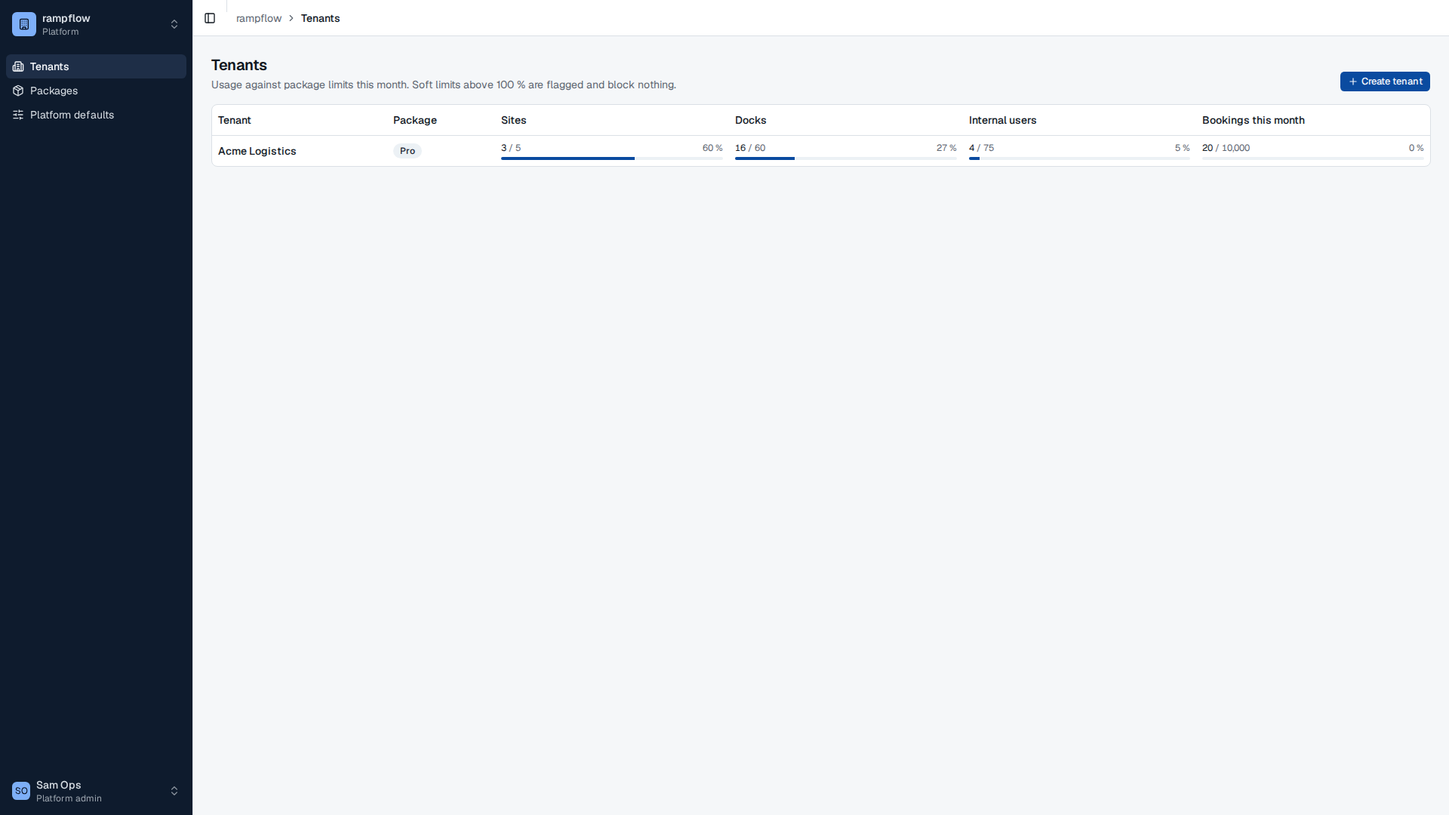
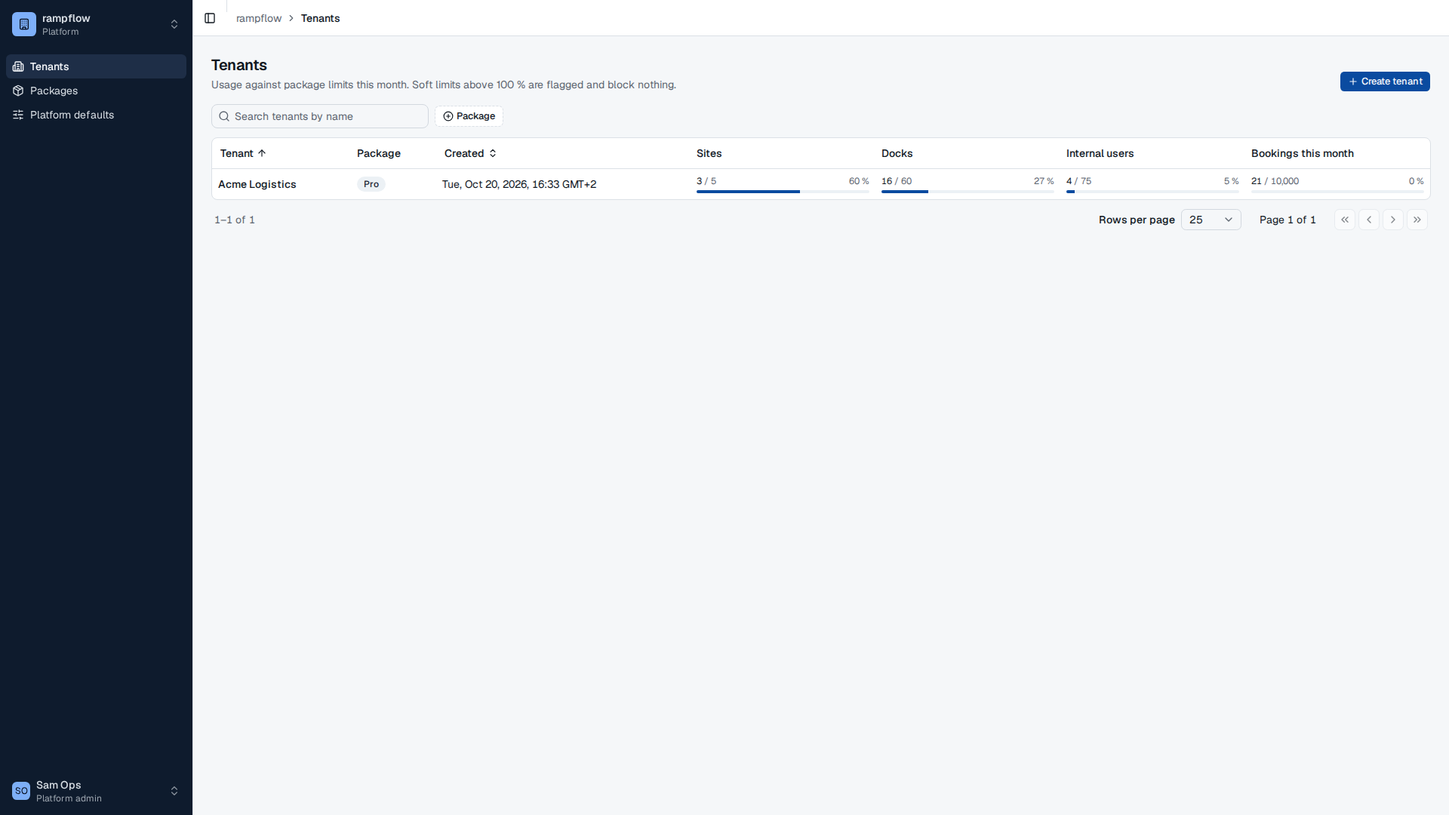
Record data tables and entity views in ADR-0015
Amends ADR-0011's route map rules, rewrites the API pagination section,
and updates the UX concept, PL-04, the architecture overview, the
onboarding guide with a fresh tenant list screenshot, and AGENTS.md.

diff --git a/docs/INDEX.md b/docs/INDEX.md
@@ -63,6 +63,7 @@ Generated by `pnpm docs:index` from frontmatter. Do not edit by hand. Convention
 | [ADR-0012 Time handling with UTC instants, site IANA zones and a DST-safe slot grid](decisions/ADR-0012-time-handling.md) | How rampflow stores instants and local wall-clock values, generates slots across DST gaps and folds, counts daily caps and KPI days in site-local days, and labels times for every viewer. | agent, developer | adr, time, dst, booking, i18n |
 | [ADR-0013 OpenAPI description generated from the routes, zod request schemas and TypeScript response types](decisions/ADR-0013-openapi-from-routes-and-typescript.md) | Why the API description is a checked-in OpenAPI 3.1 file built at build time from the running app and the TypeScript checker, why response shapes stay TypeScript types, how operations are joined by id, why the generator uses TypeScript 6, and why Swagger UI is served only in development. | agent, developer | adr, api, openapi, routes, typescript, zod |
 | [ADR-0014 User UI preferences in app_user.ui_prefs, merged per key](decisions/ADR-0014-user-ui-preferences.md) | Why per-user UI state such as the open entitlement groups lives in a jsonb column on app_user, why writes merge key by key, why every key has its own zod schema and stale keys are dropped on read, and why the column holds UI state only. | agent, developer | adr, ui, preferences, api, data-model |
+| [ADR-0015 Data tables with URL state, and one view per entity](decisions/ADR-0015-data-tables-and-entity-views.md) | Why lists search, filter, sort and page on the server with page numbers and keep that state in the URL, how the list contract, the API fragments and the web DataTable fit together, and the rule that every managed entity has its own deep-linkable view with tabs as child routes. | agent, developer | adr, frontend, routing, api, lists, ux |
 | [ADR-0019 Central value sets as self-keyed as-const objects](decisions/ADR-0019-central-value-sets.md) | Why every closed set of string values (statuses, kinds, roles, reasons, error codes, manifest keys) is one `as const` object in a `values.ts` in packages/shared, how zod, Drizzle and the web reuse it, and how lint and a type-aware check reject string literals at use sites. | agent, developer | adr, conventions, value-sets, typescript, lint, data-model |
 | [Architecture overview](explanation/architecture-overview.md) | How the parts of rampflow fit together. The three apps and two packages, the scoped transaction and RLS behind every request, module manifests as the source of entitlements, permissions, settings and navigation, the booking engine as the single writer of status, and the outbox and job runner. Lists the known security follow-ups and links every ADR and reference. | developer, agent | architecture, tenancy, rls, modules, entitlements, booking, outbox, jobs, frontend, driver, security |
 | [Delivery plan](explanation/delivery-plan.md) | The MVP implementation as 13 units in 6 waves, each with goal, stories, owned files, provided and consumed interfaces, required tests, verification commands and dependencies, plus the rules for shared files, merging, and the scope adjustments and risks. | agent, developer | plan, delivery, units, waves, testing, mvp |
@@ -76,8 +77,8 @@ Generated by `pnpm docs:index` from frontmatter. Do not edit by hand. Convention
 ## By tag
 
 - **accessibility**: [UX concept](explanation/ux-concept.md)
-- **adr**: [ADR-0001 Data access with Drizzle and node-postgres](decisions/ADR-0001-data-access-drizzle-node-postgres.md), [ADR-0002 Tenancy isolation with application scoping and row-level security](decisions/ADR-0002-tenancy-isolation-rls.md), [ADR-0003 Authentication with scrypt passwords and a session table instead of better-auth](decisions/ADR-0003-authentication-self-built-sessions.md), [ADR-0004 Bookable resource capacity and booking concurrency](decisions/ADR-0004-booking-capacity-concurrency.md), [ADR-0005 Booking and visit lifecycle as one state machine with one writer](decisions/ADR-0005-booking-state-machine.md), [ADR-0006 Module manifests as the single source of entitlements, permissions, settings and navigation](decisions/ADR-0006-module-manifest-entitlements-permissions.md), [ADR-0007 Settings stored as validated JSON per scope and resolved site, tenant, platform, default](decisions/ADR-0007-settings-resolution.md), [ADR-0008 Driver links, token exchange and the driver PWA as a separate app](decisions/ADR-0008-driver-token-pwa-delivery.md), [ADR-0009 i18n with i18next, one namespace per module, catalogs split into part files](decisions/ADR-0009-i18n-catalogs.md), [ADR-0010 Email through a transactional outbox and an in-process singleton job runner](decisions/ADR-0010-email-outbox-job-runner.md), [ADR-0011 Frontend route structure per area with the active org in the URL](decisions/ADR-0011-frontend-routes-and-org-context.md), [ADR-0012 Time handling with UTC instants, site IANA zones and a DST-safe slot grid](decisions/ADR-0012-time-handling.md), [ADR-0013 OpenAPI description generated from the routes, zod request schemas and TypeScript response types](decisions/ADR-0013-openapi-from-routes-and-typescript.md), [ADR-0014 User UI preferences in app_user.ui_prefs, merged per key](decisions/ADR-0014-user-ui-preferences.md), [ADR-0019 Central value sets as self-keyed as-const objects](decisions/ADR-0019-central-value-sets.md)
-- **api**: [ADR-0013 OpenAPI description generated from the routes, zod request schemas and TypeScript response types](decisions/ADR-0013-openapi-from-routes-and-typescript.md), [ADR-0014 User UI preferences in app_user.ui_prefs, merged per key](decisions/ADR-0014-user-ui-preferences.md), [Run rampflow locally](how-to/run-locally.md), [API routes](reference/api-routes.md), [Module contract](reference/module-contract.md)
+- **adr**: [ADR-0001 Data access with Drizzle and node-postgres](decisions/ADR-0001-data-access-drizzle-node-postgres.md), [ADR-0002 Tenancy isolation with application scoping and row-level security](decisions/ADR-0002-tenancy-isolation-rls.md), [ADR-0003 Authentication with scrypt passwords and a session table instead of better-auth](decisions/ADR-0003-authentication-self-built-sessions.md), [ADR-0004 Bookable resource capacity and booking concurrency](decisions/ADR-0004-booking-capacity-concurrency.md), [ADR-0005 Booking and visit lifecycle as one state machine with one writer](decisions/ADR-0005-booking-state-machine.md), [ADR-0006 Module manifests as the single source of entitlements, permissions, settings and navigation](decisions/ADR-0006-module-manifest-entitlements-permissions.md), [ADR-0007 Settings stored as validated JSON per scope and resolved site, tenant, platform, default](decisions/ADR-0007-settings-resolution.md), [ADR-0008 Driver links, token exchange and the driver PWA as a separate app](decisions/ADR-0008-driver-token-pwa-delivery.md), [ADR-0009 i18n with i18next, one namespace per module, catalogs split into part files](decisions/ADR-0009-i18n-catalogs.md), [ADR-0010 Email through a transactional outbox and an in-process singleton job runner](decisions/ADR-0010-email-outbox-job-runner.md), [ADR-0011 Frontend route structure per area with the active org in the URL](decisions/ADR-0011-frontend-routes-and-org-context.md), [ADR-0012 Time handling with UTC instants, site IANA zones and a DST-safe slot grid](decisions/ADR-0012-time-handling.md), [ADR-0013 OpenAPI description generated from the routes, zod request schemas and TypeScript response types](decisions/ADR-0013-openapi-from-routes-and-typescript.md), [ADR-0014 User UI preferences in app_user.ui_prefs, merged per key](decisions/ADR-0014-user-ui-preferences.md), [ADR-0015 Data tables with URL state, and one view per entity](decisions/ADR-0015-data-tables-and-entity-views.md), [ADR-0019 Central value sets as self-keyed as-const objects](decisions/ADR-0019-central-value-sets.md)
+- **api**: [ADR-0013 OpenAPI description generated from the routes, zod request schemas and TypeScript response types](decisions/ADR-0013-openapi-from-routes-and-typescript.md), [ADR-0014 User UI preferences in app_user.ui_prefs, merged per key](decisions/ADR-0014-user-ui-preferences.md), [ADR-0015 Data tables with URL state, and one view per entity](decisions/ADR-0015-data-tables-and-entity-views.md), [Run rampflow locally](how-to/run-locally.md), [API routes](reference/api-routes.md), [Module contract](reference/module-contract.md)
 - **architecture**: [Architecture overview](explanation/architecture-overview.md), [Technical architecture research](explanation/research/tech-architecture.md)
 - **auth**: [ADR-0003 Authentication with scrypt passwords and a session table instead of better-auth](decisions/ADR-0003-authentication-self-built-sessions.md), [Technical architecture research](explanation/research/tech-architecture.md)
 - **avis**: [Domain glossary](explanation/domain-glossary.md), [MVP scope](explanation/mvp-scope.md), [Domain standards and compliance research](explanation/research/domain-standards.md), [Book a slot as a carrier](how-to/book-a-slot-as-a-carrier.md), [Plan the day on the plan board](how-to/plan-the-day.md)
@@ -106,7 +107,7 @@ Generated by `pnpm docs:index` from frontmatter. Do not edit by hand. Convention
 - **errors**: [API routes](reference/api-routes.md)
 - **events**: [ADR-0005 Booking and visit lifecycle as one state machine with one writer](decisions/ADR-0005-booking-state-machine.md), [Booking lifecycle](reference/booking-lifecycle.md)
 - **features**: [Market and feature research](explanation/research/market-and-features.md)
-- **frontend**: [ADR-0011 Frontend route structure per area with the active org in the URL](decisions/ADR-0011-frontend-routes-and-org-context.md), [Architecture overview](explanation/architecture-overview.md), [Module contract](reference/module-contract.md)
+- **frontend**: [ADR-0011 Frontend route structure per area with the active org in the URL](decisions/ADR-0011-frontend-routes-and-org-context.md), [ADR-0015 Data tables with URL state, and one view per entity](decisions/ADR-0015-data-tables-and-entity-views.md), [Architecture overview](explanation/architecture-overview.md), [Module contract](reference/module-contract.md)
 - **gate**: [Run the gate and the docks](how-to/run-the-gate-and-docks.md)
 - **gdpr**: [ADR-0008 Driver links, token exchange and the driver PWA as a separate app](decisions/ADR-0008-driver-token-pwa-delivery.md), [MVP scope](explanation/mvp-scope.md), [Domain standards and compliance research](explanation/research/domain-standards.md), [Answer a data subject request](how-to/answer-a-data-subject-request.md)
 - **glossary**: [Domain glossary](explanation/domain-glossary.md)
@@ -117,6 +118,7 @@ Generated by `pnpm docs:index` from frontmatter. Do not edit by hand. Convention
 - **jobs**: [ADR-0010 Email through a transactional outbox and an in-process singleton job runner](decisions/ADR-0010-email-outbox-job-runner.md), [Architecture overview](explanation/architecture-overview.md)
 - **lan**: [Run rampflow locally](how-to/run-locally.md)
 - **lint**: [ADR-0019 Central value sets as self-keyed as-const objects](decisions/ADR-0019-central-value-sets.md)
+- **lists**: [ADR-0015 Data tables with URL state, and one view per entity](decisions/ADR-0015-data-tables-and-entity-views.md)
 - **load-types**: [Set up a site for booking](how-to/set-up-a-site.md)
 - **mail**: [Run rampflow locally](how-to/run-locally.md)
 - **market**: [Market and feature research](explanation/research/market-and-features.md)
@@ -141,7 +143,7 @@ Generated by `pnpm docs:index` from frontmatter. Do not edit by hand. Convention
 - **retention**: [Answer a data subject request](how-to/answer-a-data-subject-request.md)
 - **rls**: [ADR-0002 Tenancy isolation with application scoping and row-level security](decisions/ADR-0002-tenancy-isolation-rls.md), [Architecture overview](explanation/architecture-overview.md), [Add a module or an entitlement](how-to/add-a-module-or-entitlement.md), [Data model](reference/data-model.md)
 - **routes**: [ADR-0013 OpenAPI description generated from the routes, zod request schemas and TypeScript response types](decisions/ADR-0013-openapi-from-routes-and-typescript.md), [API routes](reference/api-routes.md)
-- **routing**: [ADR-0011 Frontend route structure per area with the active org in the URL](decisions/ADR-0011-frontend-routes-and-org-context.md)
+- **routing**: [ADR-0011 Frontend route structure per area with the active org in the URL](decisions/ADR-0011-frontend-routes-and-org-context.md), [ADR-0015 Data tables with URL state, and one view per entity](decisions/ADR-0015-data-tables-and-entity-views.md)
 - **safety**: [ADR-0008 Driver links, token exchange and the driver PWA as a separate app](decisions/ADR-0008-driver-token-pwa-delivery.md), [Domain glossary](explanation/domain-glossary.md), [MVP scope](explanation/mvp-scope.md), [Domain standards and compliance research](explanation/research/domain-standards.md), [UX concept](explanation/ux-concept.md), [Run the gate and the docks](how-to/run-the-gate-and-docks.md), [Open and test the driver PWA](how-to/test-the-driver-pwa.md), [Write and publish a safety briefing](how-to/write-a-safety-briefing.md), [Booking lifecycle](reference/booking-lifecycle.md), [Data model](reference/data-model.md), [Your first truck, end to end](tutorials/first-truck-end-to-end.md)
 - **scope**: [MVP scope](explanation/mvp-scope.md)
 - **security**: [ADR-0002 Tenancy isolation with application scoping and row-level security](decisions/ADR-0002-tenancy-isolation-rls.md), [ADR-0003 Authentication with scrypt passwords and a session table instead of better-auth](decisions/ADR-0003-authentication-self-built-sessions.md), [ADR-0008 Driver links, token exchange and the driver PWA as a separate app](decisions/ADR-0008-driver-token-pwa-delivery.md), [Architecture overview](explanation/architecture-overview.md)
@@ -162,7 +164,7 @@ Generated by `pnpm docs:index` from frontmatter. Do not edit by hand. Convention
 - **typescript**: [ADR-0013 OpenAPI description generated from the routes, zod request schemas and TypeScript response types](decisions/ADR-0013-openapi-from-routes-and-typescript.md), [ADR-0019 Central value sets as self-keyed as-const objects](decisions/ADR-0019-central-value-sets.md)
 - **ui**: [ADR-0014 User UI preferences in app_user.ui_prefs, merged per key](decisions/ADR-0014-user-ui-preferences.md)
 - **units**: [Delivery plan](explanation/delivery-plan.md)
-- **ux**: [ADR-0011 Frontend route structure per area with the active org in the URL](decisions/ADR-0011-frontend-routes-and-org-context.md), [UX concept](explanation/ux-concept.md)
+- **ux**: [ADR-0011 Frontend route structure per area with the active org in the URL](decisions/ADR-0011-frontend-routes-and-org-context.md), [ADR-0015 Data tables with URL state, and one view per entity](decisions/ADR-0015-data-tables-and-entity-views.md), [UX concept](explanation/ux-concept.md)
 - **validation**: [ADR-0007 Settings stored as validated JSON per scope and resolved site, tenant, platform, default](decisions/ADR-0007-settings-resolution.md)
 - **value-sets**: [ADR-0019 Central value sets as self-keyed as-const objects](decisions/ADR-0019-central-value-sets.md)
 - **waves**: [Delivery plan](explanation/delivery-plan.md)

diff --git a/docs/decisions/ADR-0015-data-tables-and-entity-views.md b/docs/decisions/ADR-0015-data-tables-and-entity-views.md
@@ -1,0 +1,85 @@
+---
+title: ADR-0015 Data tables with URL state, and one view per entity
+description: Why lists search, filter, sort and page on the server with page numbers and keep that state in the URL, how the list contract, the API fragments and the web DataTable fit together, and the rule that every managed entity has its own deep-linkable view with tabs as child routes.
+type: explanation
+audience: [agent, developer]
+tags: [adr, frontend, routing, api, lists, ux]
+status: stable
+updated: 2026-10-20
+related: [docs/decisions/ADR-0011-frontend-routes-and-org-context.md, docs/decisions/ADR-0013-openapi-from-routes-and-typescript.md, docs/reference/api-routes.md, docs/explanation/ux-concept.md]
+---
+
+# ADR-0015: Data tables with URL state, and one view per entity
+
+Status: accepted, 2026-10-20. Amends [ADR-0011](ADR-0011-frontend-routes-and-org-context.md).
+
+## Context
+
+The product owner decided that lists use one data table with search, filter and sort, run on the server, with the table state in the URL so a filtered list is a deep link. The same decision says every entity with its own id gets its own deep-linkable view, with detail tabs as child routes.
+
+Before this decision every list was a hand-built shadcn `Table` that rendered all rows the API returned. The platform tenant list (PL-04) returned every tenant and counted usage with one statement per tenant, so it slowed down with each tenant. The streams (bookings, booking events, acknowledgements) already paged with cursors; master-data lists were unpaged.
+
+## Options considered
+
+| Question | Option | Verdict |
+|---|---|---|
+| Paging | Keyset cursors, as the streams use | One cursor encoding per sort column and direction, no jump to a page, no total without a second count, and an opaque cursor in a shared link means nothing once the data changed. Right for append-only streams read as "load more". |
+| | Infinite scroll | Not deep-linkable, no total, poor for keyboard users. |
+| | **Page numbers with a total** | "26–50 of 132", jump to any page, a readable `page=3` in a shared link. `OFFSET` scans the skipped rows, bounded by the page cap and the size of master-data lists. |
+| Query schemas | One schema for the API and the URL | Either the API accepts garbage, or a link from an older release breaks the screen. |
+| | **Two schemas from one list spec** | The API rejects bad input with zod paths (422); the URL falls back to defaults. Both come from one spec, so they cannot drift. |
+| Server code | A generic list executor that runs count, facets and page | Needs hooks for joins, RLS-scoped filters and post-processing such as usage counts. |
+| | **SQL fragments the service composes** | Each service keeps its own queries readable; the kernel stays small. |
+
+## Decision
+
+### 1. Lists that users browse are data tables
+
+- **Query.** Every data-table list accepts `q` (search text, at most 100 characters, trimmed), `sort` (one of the list's sortable columns), `order` (`asc` or `desc`), one comma-separated parameter per facet (`package=start,pro`), `page` (1 to 10000) and `pageSize` (10, 25, 50 or 100). All are optional and default per list.
+- **Response.** `{ items, total, page, pageSize }` plus the list's facet counts, for example `facets: { package: { start, pro, enterprise } }`. `total` counts the rows matching the search and every facet. A facet's counts ignore that facet's own selection, so they tell what choosing another value would add. A page past the end answers 200 with no items.
+- **Rules.** Search is a case-insensitive substring over the list's search columns; `%`, `_` and `\` match themselves. Rows with equal sort values are ordered by id, so consecutive pages neither repeat nor skip a row while the data does not change. A row inserted between two page reads can shift across a page boundary, which is acceptable for admin lists.
+- **Invalid input.** The API answers 422 `validation_failed` with the zod path of each invalid or unknown parameter. The web replaces each invalid search param with its default, drops unknown facet values, and rewrites the URL to its canonical form.
+- **Contract.** `packages/shared/src/contract/list.ts`: `defineList({ sort, defaultSort, defaultOrder, facets })` returns `query` (strict, API), `search` (lenient, web), `defaults`, `toQuery` (strings for the `hc` call), `toSearch` (the URL; numbers stay numbers so the router writes `page=2`) and `canonical`. Sort keys and facet values are value sets ([ADR-0019](ADR-0019-central-value-sets.md)). Each list declares a named response type that extends `ListPage<T>`, as [ADR-0013](ADR-0013-openapi-from-routes-and-typescript.md) requires.
+- **API.** `apps/api/src/kernel/list.ts`: `contains`, `orderBy`, `pageWindow`, `facetCounts` and `pageOf`. Work that runs per row, such as usage counts, runs for the page rows only.
+- **Web.** `apps/web/src/components/data-table/`, after the shadcn data-table guide on TanStack Table v9 (manual sorting and pagination): toolbar with a labelled search and faceted filters, sortable headers with `aria-sort`, pagination with a polite live range and a page size select, placeholder rows on first load, the previous rows with `aria-busy` while the next page loads, an error with retry, and two empty states (none yet, no match). `use-list-state.ts` keeps the state in the route's search params: facet, sort, page and page size changes push a history entry; a typing run in the search field pushes one entry and replaces it afterwards; criteria changes return to page 1. The route sets `validateSearch: List.search` and the `canonicalSearch(List)` middleware.
+- **Streams keep cursors.** Bookings, booking events and acknowledgements keep `?limit&cursor` with `{ items, nextCursor }`.
+- **Adoption.** A list adopts the data table when it is next changed. Until then, master-data lists return `{ items }`.
+
+### 2. Every managed entity has its own view
+
+- Every entity with its own id that users create, open or manage on its own has a detail view at `<list path>/$<entity>Id`. Rows of a list link to it with a real link, so it opens with a click, with Enter and in a new tab.
+- Rows that exist only as part of a parent and are edited in the parent's view need no view of their own: opening hours, closures, entitlement overrides, setting values, invitations, duration rules.
+- A detail view with tabs makes each tab a child route `<detail path>/<tab>`; the first tab is the index route at the detail path. Selecting a tab changes the URL and adds a history entry.
+- Tabs that switch between different lists on one page (`/t/$orgId/carriers?tab=`) are list state and stay search params until those lists get their own entries.
+- An unknown or foreign id shows the area's "no access" page inside the shell. It never redirects to another entity and never reveals whether the id exists. A view loads its entity in a route `loader`, so a 404 reaches an error component instead of a loading placeholder.
+- Entity and tab URLs keep the sign-in redirect: opened without a session, they lead to sign-in and back to the same URL.
+
+### 3. Amendment to ADR-0011
+
+ADR-0011's route map rules gain the entity-view and detail-tab rules next to "Every screen has a nav item or names the screen it is reached from", and its `/platform/tenants` row lists the list's search params.
+
+### 4. Backlog
+
+Entities with an id and no view of their own today. None is built by this decision; each gets its view when its screen is next changed.
+
+| Entity | Today | Future view |
+|---|---|---|
+| Carrier (tenant side) | row in `/t/$orgId/carriers?tab=linked` | `/t/$orgId/carriers/$carrierId` |
+| Dock | row in the hall card on `/t/$orgId/sites/$siteId` | `/t/$orgId/sites/$siteId/docks/$dockId` |
+| Hall | card on `/t/$orgId/sites/$siteId` | `/t/$orgId/sites/$siteId/halls/$hallId` |
+| Staff user | row in `/t/$orgId/staff` | `/t/$orgId/staff/$userId` |
+| Carrier user | row in `/c/$orgId/users` | `/c/$orgId/users/$userId` |
+| Package | column in `/platform/packages` | `/platform/packages/$packageId` |
+| Carrier's linked tenant | row in `/c/$orgId/tenants` | `/c/$orgId/tenants/$tenantId` |
+| Bookable resource | pool editor on `/t/$orgId/sites/$siteId` | `/t/$orgId/sites/$siteId/resources/$resourceId` |
+| Load type | row in `/t/$orgId/sites/$siteId/load-types` | `/t/$orgId/sites/$siteId/load-types/$loadTypeId` |
+
+To classify when next touched: carrier registration, public booking link, safety version, safety acknowledgement, privacy request.
+
+## Consequences
+
+- A filtered, sorted page of a list is a link that opens the same rows for another user, and back and forward walk through the list states.
+- Per-request work of a data-table list is bounded by the page size. The first adopter, the platform tenant list, counts usage for 25 tenants by default instead of all of them.
+- Count, facet and page run as separate statements under Read Committed, so a concurrent insert can make `total` and `items` disagree by one until the next fetch.
+- Search uses `ILIKE '%q%'` without an index. A list that outgrows this gets a `pg_trgm` index in a change that may touch the data model; accent-insensitive search needs `unaccent`, also a data model change.
+- `GET /api/platform/tenants` changed its response from all tenants to a page. Its only client, the web app, changed with it.

diff --git a/docs/explanation/ux-concept.md b/docs/explanation/ux-concept.md
@@ -144,7 +144,7 @@ Scope tabs (tenant, then each site). Sections per module. Each row is a `Setting
 
 ### Platform admin (PL-01, PL-02, PL-04)
 
-A tenant table with meters for sites, docks, users and bookings per month. A soft limit above 100 % shows a red "108 % soft" with a warning icon and blocks nothing. Below, the selected tenant's package select, an override table (key, package value, override with "higher" or "lower" and "soft", expiry, remove) and an add-override form whose key select contains only non-reserved keys.
+A data table of tenants: Tenant (link to the tenant view, sortable), Package, Created (instant in the viewer's zone with the zone name, sortable), and meters for sites, docks, users and bookings per month (not sortable). The toolbar searches the tenant name and filters by package with a count per package; "Clear filters" appears while either is set. 25 tenants per page by default, 10, 25, 50 or 100 to choose. "Create tenant" stays in the page header whatever the filters. A soft limit above 100 % shows a red "108 % soft" with a warning icon and blocks nothing. Below, the selected tenant's package select, an override table (key, package value, override with "higher" or "lower" and "soft", expiry, remove) and an add-override form whose key select contains only non-reserved keys.
 
 ## Interaction patterns
 
@@ -155,6 +155,7 @@ A tenant table with meters for sites, docks, users and bookings per month. A sof
 - **Driver flow.** Booking, briefing, quiz, waiting, called, done. Each screen has one primary action in the sticky footer. The PWA polls every 15 s while visible and shows the last known state with its time when offline.
 - **Settings inheritance.** Source badge on every value, "Reset to inherited" only on overrides at the current scope, hidden when the entitlement is off.
 - **Entitlement gating.** `EntitlementGate` renders children when on, nothing when off, and an `UpsellHint` when the page is an admin page. Navigation items of off features are not rendered. API 403 `entitlement_required` maps to the same hint on admin pages and to a plain "not available" page elsewhere.
+- **Lists.** Lists that users browse are `DataTable`s ([ADR-0015](../decisions/ADR-0015-data-tables-and-entity-views.md)): search, facets, sort and paging run on the server, and the state lives in the URL with the API's parameter names, so a filtered list is a link. A facet, sort or page change adds a history entry, a typing run in the search field adds one, so back restores the previous list. Changing the search, a facet or the page size returns to page 1. First load shows the header with placeholder rows; a later fetch keeps the previous rows, marks the table busy and shows a spinner in the toolbar. A failed fetch shows an error with "Try again". Two empty states: "none yet" with the list's primary action, and "no match" naming the active criteria with "Clear filters". Each row links to its entity's own view.
 - **Org switching.** The org menu in the sidebar header lists all memberships with kind and role. Selecting one navigates to that org's home route. Carriers work across tenants inside one org through filters, not switches.
 
 ## Visual language
@@ -179,7 +180,7 @@ A tenant table with meters for sites, docks, users and bookings per month. A sof
 | Driver | Progress, RadioGroup, Checkbox, Field, Input, Button | `DriverShell`, `PhoneFrame` |
 | Master data | Card, Table, Badge, Field, Input, InputGroup, ToggleGroup, Checkbox, Progress, Button | none |
 | Settings | Tabs, Switch, Input, NativeSelect, Button | `SettingField`, `SourceBadge`, `UpsellHint` |
-| Platform admin | Table, Badge, Card, Field, Input, NativeSelect, Progress, Button | usage `Meter` |
+| Platform admin | Table, Badge, Card, Field, Input, InputGroup, NativeSelect, Select, Popover, Command, Empty, Skeleton, Spinner, Progress, Button | `DataTable`, usage `Meter` |
 
 Custom components and why no shadcn component fits:
 
@@ -190,6 +191,7 @@ Custom components and why no shadcn component fits:
 - `SettingField` and `SourceBadge` (`components/settings-field.tsx`). Field plus provenance plus reset is a product pattern, not a form primitive.
 - `EntitlementGate` and `UpsellHint` (`components/entitlement-gate.tsx`). Behavioural wrapper around the three entitlement states.
 - Shells (`components/shells/`). Composed from Sidebar for the office; the tablet shell (gate and dock stations) and the driver shell are plain layout because Sidebar assumes a desktop.
+- `DataTable` (`components/data-table/`). The shadcn data-table is a guide, not a registry item, so the table, toolbar, faceted filter, sortable header and pagination are composed here from Table, InputGroup, Popover, Command, Badge, Select and Empty on TanStack Table v9, with the state hook that keeps them in the URL.
 - `QrPlaceholder`. Stand-in for a QR encoder; the implementation swaps in a real one.
 
 ## Copy tone and i18n

diff --git a/docs/reference/api-routes.md b/docs/reference/api-routes.md
@@ -87,7 +87,12 @@ Every answer of the API, and of the SPAs it serves in production, carries `X-Con
 
 ### Pagination
 
-Lists that grow without bound (bookings, visits, acknowledgements, events) are cursor-paginated: `?limit=50&cursor=<opaque>` returns `{ items, nextCursor: string | null }`. `limit` is 1 to 200, default 50. The cursor encodes the sort key and the id. Master-data lists (sites, docks, resources, load types, staff) return `{ items }` without paging.
+Two paging styles ([ADR-0015](../decisions/ADR-0015-data-tables-and-entity-views.md)):
+
+- **Data-table lists** (today: `GET /api/platform/tenants`) take the list query: `q` (case-insensitive substring, at most 100 characters; `%`, `_` and `\` match themselves), `sort` (one of the list's sortable columns), `order` (`asc` or `desc`), one comma-separated parameter per facet (`package=start,pro`), `page` (1 to 10000, default 1) and `pageSize` (10, 25, 50 or 100, default 25). Each parameter is optional. They answer `{ items, total, page, pageSize, facets }`: `total` counts the rows matching the search and every facet, `facets.<name>.<value>` counts the rows matching the search and every other facet, and rows with equal sort values come in id order. A page past the end answers 200 with no items. An invalid or unknown parameter answers 422 `validation_failed` with its zod path (`["pageSize"]`, `["package", 0]`).
+- **Streams** that grow without bound (bookings, visits, acknowledgements, events) are cursor-paginated: `?limit=50&cursor=<opaque>` returns `{ items, nextCursor: string | null }`. `limit` is 1 to 200, default 50. The cursor encodes the sort key and the id.
+
+Master-data lists not yet on the data table (sites, docks, resources, load types, staff) return `{ items }` without paging.
 
 ### Idempotency and concurrency
 
@@ -150,7 +155,7 @@ Unit U3. `core/platform/routes.platform.ts`, mounted at the platform root. Schem
 
 | Method | Path | Party | Permission | Entitlement | Story | Router | Notes |
 |---|---|---|---|---|---|---|---|
-| GET | `/api/platform/tenants` | platform | `core.manage_tenants` |  | PL-01, PL-04 | `core/platform/routes.platform.ts` | `{ items: [{ id, name, package, usage }] }`. `usage` holds one meter `{ used, limit, soft, over }` per limit: `core.max_sites` (active sites), `core.max_docks` (active and maintenance docks), `core.max_internal_users` (members plus invitations that still work) and `booking.max_bookings_per_month` (bookings created since the first of the UTC month). `over` is `used > limit` and blocks nothing. Counted in the request transaction as the tenant with actor `system:usage` |
+| GET | `/api/platform/tenants` | platform | `core.manage_tenants` |  | PL-01, PL-04 | `core/platform/routes.platform.ts` | One page of tenants: `{ items: [{ id, name, package, createdAt, usage }], total, page, pageSize, facets: { package: { start, pro, enterprise } } }`. Query (all optional): `q` searches the name as a case-insensitive substring, `package` filters by a comma-separated list of package ids, `sort` is `name` (default) or `createdAt`, `order` is `asc` (default) or `desc` with `id` as tiebreaker, `page` from 1 (default) to 10000, `pageSize` 10, 25 (default), 50 or 100; anything else is 422 at its path. `total` counts the tenants matching `q` and `package`; `facets.package` counts per package the tenants matching `q`, ignoring `package`. A page past the end has no items. `usage` holds one meter `{ used, limit, soft, over }` per limit, counted for the page rows only: `core.max_sites` (active sites), `core.max_docks` (active and maintenance docks), `core.max_internal_users` (members plus invitations that still work) and `booking.max_bookings_per_month` (bookings created since the first of the UTC month). `over` is `used > limit` and blocks nothing. Counted in the request transaction as the tenant with actor `system:usage` |
 | POST | `/api/platform/tenants` | platform | `core.manage_tenants` |  | PL-01 | `core/platform/routes.platform.ts` | `{ name, package, adminEmail }` → 201 tenant detail. Creates org, subscription and a `tenant_admin` invitation, and enqueues `core.invitation` in the platform default locale. Service: `createTenant` in `core/platform/tenants.ts` |
 | GET | `/api/platform/tenants/:tenantId` | platform | `core.manage_tenants` |  | PL-02 | `core/platform/routes.platform.ts` | `{ id, name, package, usage, entitlements: [{ key, module, kind, soft, value, source, packageValue? }], overrides: [{ key, value, expiresAt, note, active }], adminInvitations: [{ id, email, expiresAt }] }`. Reserved keys are left out; 404 for an id that is not a tenant |
 | PATCH | `/api/platform/tenants/:tenantId` | platform | `core.manage_tenants` |  | PL-02 | `core/platform/routes.platform.ts` | `{ name?, package? }` → tenant detail |

diff --git a/docs/decisions/ADR-0011-frontend-routes-and-org-context.md b/docs/decisions/ADR-0011-frontend-routes-and-org-context.md
@@ -5,13 +5,13 @@ type: explanation
 audience: [agent, developer]
 tags: [adr, frontend, routing, tenancy, entitlements, ux]
 status: stable
-updated: 2026-10-19
-related: [docs/explanation/mvp-scope.md, docs/explanation/research/tech-architecture.md, docs/decisions/ADR-0006-module-manifest-entitlements-permissions.md, docs/decisions/ADR-0008-driver-token-pwa-delivery.md]
+updated: 2026-10-20
+related: [docs/decisions/ADR-0015-data-tables-and-entity-views.md, docs/explanation/mvp-scope.md, docs/explanation/research/tech-architecture.md, docs/decisions/ADR-0006-module-manifest-entitlements-permissions.md, docs/decisions/ADR-0008-driver-token-pwa-delivery.md]
 ---
 
 # ADR-0011: Frontend route structure per area with the active org in the URL
 
-Status: accepted, 2026-10-19. Revised 2026-10-19 after the design review: this ADR now holds the one route map, and the UX concept points here. The UX concept decides layouts and screens; this ADR fixes the routing contract that screens plug into.
+Status: accepted, 2026-10-19. Revised 2026-10-19 after the design review: this ADR now holds the one route map, and the UX concept points here. Amended by [ADR-0015](ADR-0015-data-tables-and-entity-views.md) on 2026-10-20: entity views, detail tabs as child routes, and list state in the URL. The UX concept decides layouts and screens; this ADR fixes the routing contract that screens plug into.
 
 ## Context
 
@@ -46,6 +46,13 @@ One user can hold several memberships: a dispatcher at two tenants, or a carrier
 
 This table is the only route map. Every screen has a nav item (rendered by `navFor` from the manifests) or names the screen it is reached from. A screen that fits neither does not ship. "nav `booking.plan`" names the manifest item `plan` of module `booking`.
 
+From [ADR-0015](ADR-0015-data-tables-and-entity-views.md):
+
+- Every entity with its own id that users manage on its own has a view at `<list path>/$<entity>Id`, and list rows link to it. Rows edited only inside their parent's view (hours, closures, overrides, setting values, invitations, duration rules) need none.
+- A detail view's tabs are child routes `<detail path>/<tab>`; the first tab is the index route. Tabs that switch between lists on one page stay search params.
+- An unknown or foreign id shows the area's "no access" page inside the shell.
+- A data-table list keeps its search, facets, sort and page in the search params listed in its row.
+
 **Sign-in and token pages** (no shell). Tokens travel only in the URL fragment, never in the path or the query, so they stay out of request lines, logs, history and `Referer` ([ADR-0003](ADR-0003-authentication-self-built-sessions.md)). The page reads `location.hash`, removes it with `history.replaceState`, then posts the token.
 
 | Path | Screen | Stories | Reached from | Unit |
@@ -63,7 +70,7 @@ This table is the only route map. Every screen has a nav item (rendered by `navF
 
 | Path | Screen | Stories | Nav item or reached from | Unit |
 |---|---|---|---|---|
-| `/platform/tenants` | Tenants with usage meters against limits | PL-01, PL-04 | nav `core.tenants` | U3 |
+| `/platform/tenants?q=&package=&sort=&order=&page=&pageSize=` | Tenants with usage meters against limits: search by name, package filter, sort by name or creation, paging | PL-01, PL-04 | nav `core.tenants` | U3 |
 | `/platform/tenants/$tenantId` | Package and overrides | PL-02 | row of the tenant list | U3 |
 | `/platform/packages` | Packages, read-only | PL-02 | nav `core.packages` | U3 |
 | `/platform/settings` | Platform defaults | PL-03 | nav `core.platform_settings` | U3 |

diff --git a/docs/how-to/onboard-a-tenant.md b/docs/how-to/onboard-a-tenant.md
@@ -5,7 +5,7 @@ type: how-to
 audience: [platform-admin, tenant-admin, developer]
 tags: [tenancy, entitlements, settings, staff, branding]
 status: stable
-updated: 2026-10-19
+updated: 2026-10-20
 related: [docs/reference/api-routes.md, docs/decisions/ADR-0006-module-manifest-entitlements-permissions.md, docs/decisions/ADR-0007-settings-resolution.md]
 ---
 
@@ -25,7 +25,7 @@ If the invitation expires or goes to the wrong address, open the tenant and send
 
 Packages are fixed in code (`/platform/packages` shows them). For one tenant, an override changes one key:
 
-1. Open the tenant from the tenant list.
+1. Open the tenant from the tenant list. To find it, type part of its name into the search field or filter by package; select its name to open it.
 2. Add an override: choose the key, the value (on or off for a feature, a number or unlimited for a limit), an optional expiry date and a note, for example "trial until end of November".
 3. The override applies from the tenant's next request. It can raise or lower the package value. At its expiry it stops applying and the package value returns.
 
@@ -37,7 +37,14 @@ Reserved keys (features that are not built yet) cannot be overridden. Turning a 
 
 ## 4. Check usage
 
-The tenant list shows sites, docks, internal users and bookings this month against the package limits. A soft limit (bookings per month) above 100% is flagged but blocks nothing; raise it with an override or move the tenant to a larger package. Internal users count members plus invitations that are still open.
+The tenant list shows sites, docks, internal users and bookings this month against the package limits.
+
+![The tenant list with search, package filter, the created column and usage meters](../assets/screens/platform-tenants.png)
+
+- **Find a tenant.** Type part of the name into the search field; letter case does not matter. Use **Package** to show only some packages; each package shows how many tenants match the search. **Clear filters** removes both.
+- **Order and page.** Select the **Tenant** or **Created** header to sort by name or by creation date, again to reverse. The list shows 25 tenants per page; change it under **Rows per page**.
+- **Share the view.** The address bar holds the search, filter, sort and page, so a copied link opens the same list for another platform admin, and the browser's back button returns to the previous list.
+ A soft limit (bookings per month) above 100% is flagged but blocks nothing; raise it with an override or move the tenant to a larger package. Internal users count members plus invitations that are still open.
 
 ## 5. Invite staff
 

diff --git a/docs/explanation/architecture-overview.md b/docs/explanation/architecture-overview.md
@@ -47,7 +47,7 @@ flowchart LR
 ```
 
 - `apps/api` is a Hono server on Node. It serves `/api`, runs the jobs in process, and in production also serves the built `apps/web` at `/` and `apps/driver` at `/d/` (`kernel/static.ts`), so all three share one origin.
-- `apps/web` is the back office: one Vite and React SPA with TanStack Router and Query, split into the areas `/platform`, `/t/$orgId` for tenants and `/c/$orgId` for carriers ([ADR-0011](../decisions/ADR-0011-frontend-routes-and-org-context.md)). Gate and dock screens use a station layout for tablets.
+- `apps/web` is the back office: one Vite and React SPA with TanStack Router and Query, split into the areas `/platform`, `/t/$orgId` for tenants and `/c/$orgId` for carriers ([ADR-0011](../decisions/ADR-0011-frontend-routes-and-org-context.md)). Gate and dock screens use a station layout for tablets. Lists are data tables that search, filter, sort and page on the server and keep that state in the URL, and every managed entity has its own view with tabs as child routes ([ADR-0015](../decisions/ADR-0015-data-tables-and-entity-views.md)).
 - `apps/driver` is a separate PWA, with a budget of 150 KB gzip for its initial JavaScript, because drivers open it on phones at the gate. A driver has no account, only a link ([ADR-0008](../decisions/ADR-0008-driver-token-pwa-delivery.md)).
 - `packages/shared` holds what both sides must agree on: the module manifests and packages, the zod schemas of every request, the named TypeScript types of every response, the booking lifecycle table, and the time functions for site-local days ([ADR-0012](../decisions/ADR-0012-time-handling.md)).
 - `packages/i18n` holds the catalogs, one namespace per module, in three staff locales and twelve driver locales ([ADR-0009](../decisions/ADR-0009-i18n-catalogs.md)).

diff --git a/AGENTS.md b/AGENTS.md
@@ -69,6 +69,7 @@ Mail sent in dev and tests lands in Mailpit: <http://localhost:8025>.
 - Use the original shadcn components first: `pnpm dlx shadcn@latest add <component>` from the app directory. Compose them before writing a new primitive.
 - Forms: react-hook-form with `Controller` and shadcn `Field`, `FieldLabel`, `FieldDescription`, `FieldError`; zod schemas from `packages/shared` through `zodResolver`.
 - Gate routes with `guard({ permission, entitlement })` and actions with `useAccess()`; build the sidebar with `navFor` (module contract, "Web gating").
+- Lists use the `DataTable` (`components/data-table/`) with `defineList` and their state in the URL; every entity with an id gets a detail route, with tabs as child routes (ADR-0015).
 - Office screens (carrier, tenant office, platform admin) target 1920 × 1080; screenshots and the `staff` Playwright project use that viewport.
 - Show times in site time with the zone label. Touch targets on gate, dock and driver screens are at least 44 CSS px. Status never relies on color alone.
 

diff --git a/docs/explanation/mvp-scope.md b/docs/explanation/mvp-scope.md
@@ -62,7 +62,7 @@ Each story ID names one Playwright `describe` block. Criteria about races or tim
    - Unknown or reserved keys return 400.
    - A route whose entitlement is off returns 403 `entitlement_required` with the key, and its navigation item is hidden.
 3. **PL-03 Platform defaults.** The admin edits every setting with platform scope. Invalid values return 422 with the zod issue path. Tenants with an override keep it.
-4. **PL-04 Usage.** A tenant list shows sites, docks, internal users and bookings this month against limits. A soft limit above 100% is flagged and blocks nothing.
+4. **PL-04 Usage.** A tenant list shows sites, docks, internal users and bookings this month against limits. A soft limit above 100% is flagged and blocks nothing. The platform admin searches tenants by name, filters by package, sorts by name or creation date and pages through the list; the list's state is in the URL ([ADR-0015](../decisions/ADR-0015-data-tables-and-entity-views.md)).
 
 ### Tenant admin
 
